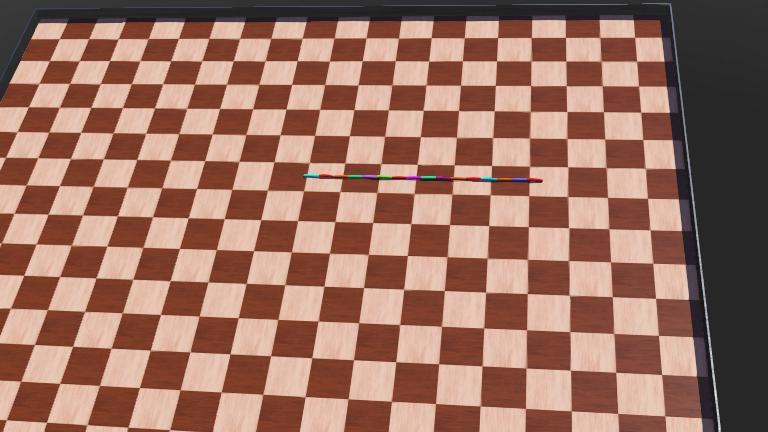
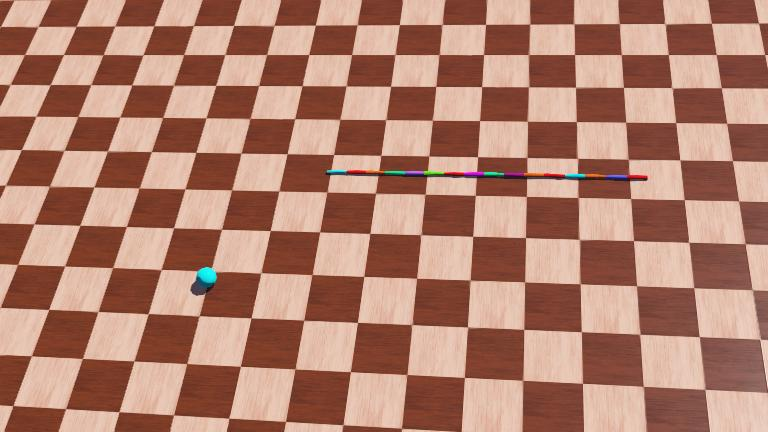
add some schedule and idea

diff --git a/controllers/snake_controller/snake_controller.py b/controllers/snake_controller/snake_controller.py
@@ -15,8 +15,14 @@ robot = Supervisor()
 timestep = int(robot.getBasicTimeStep())
 keyboard = robot.getKeyboard() # 触发键盘检测
 
-print(robot.getBasicTimeStep())
+# print(robot.getBasicTimeStep())
 keyboard.enable(int(robot.getBasicTimeStep()))
+
+# 全局坐标显示球
+ball0 = robot.getFromDef("ball0")
+
+# print(ball0.getPosition())
+
 
 def getMotors()->list[Motor]:
 
@@ -528,16 +534,6 @@ class snakeX:
             self.tupleList[index].go_forward(local_v=np.array([0,0,1]), speedAlpha= 5.0 / np.exp(index)) # 这个alpha 决定了速度的大小
         
     
-    
-    def follow_trajectory(self, traj:list[np.array]):
-        """ 
-            输入方向，计算这个方向的蜿蜒曲线，进而计算运动目标
-        """
-        
-        
-        
-        pass
-    
     def follow_key_board(self):
         """ 
             键盘控制前进方向
@@ -555,21 +551,57 @@ class snakeX:
             self.compute_target_position(targetDirection=direction,timeDelta=1)
         elif key == keyboard.RIGHT:    
             direction = direction2
-            # print("right")
  
             self.compute_target_position(targetDirection=direction,timeDelta=1)
         else:
             # 给一个全局轨迹list，进行follow
+            # 也就是若干个小球的轨迹，每次显示4个，到达一个进行滑动窗口
+            
+            self.compute_target_position
+            
             pass
             
         
+        """     def compute_traj_to_ball(self)-> list[np.array]:
+        # 计算从node0到ball0的轨迹
+        node0Pos = node_list[0].getPosition()
+        ball0Pos = ball0.getPosition()
+        
+        direction = ball0Pos - node0Pos
+        
+        print(node0Pos)
+        print(ball0Pos) """
+        
+        
+    
+    def follow_trajectory(self, traj:list[np.array]):
+        """ 
+            局部规划器：输入全局轨迹，计算这个方向的局部路径曲线，进而进行运动
+            
+        """
+        global_tj = self.compute_global_trajectory()
+        
+
+        pass
+    
+    def compute_global_trajectory(self, targetPosition)->np.array:
+        """ 
+            全局规划器：输入目标点，计算这个方向的全局路径
+            
+            # 先假设全局坐标就只有单一的几个点，试试看
+            
+            # 逐步过渡到三维空间的轨迹追踪(在World中加一个圆柱体)
+        """
+        
+        return np.array([[1,1,1],[2,2,2],[3,3,3]])
+        
+
         
         
     
 ss = snakeX()
 
 targetDirection = np.array([10, -10, 0])
-
 
 
 
@@ -582,6 +614,7 @@ while robot.step(timestep) != -1:
     """
     
     ss.follow_key_board()
+    # ss.follow_trajectory()
     # ss.compute_target_position(targetDirection=targetDirection,timeDelta=0.96)
     
 

diff --git a/controllers/snake_controller/idea.md b/controllers/snake_controller/idea.md
@@ -12,3 +12,7 @@
   + 先给一个轨迹出来   
 
 + 由于是仿真环境，所以，先不用考虑建图、定位之类的实际问题，直接用全局坐标来做个初始的样子，具体怎么来实现，后面再说
+
++ 用小球显示轨迹其实是一个好主意，大概用4 个球，可以把轨迹显示一个大概，可以去除其 boungindbox
+
++ 先follow 一个小球的轨迹，再逐渐递进